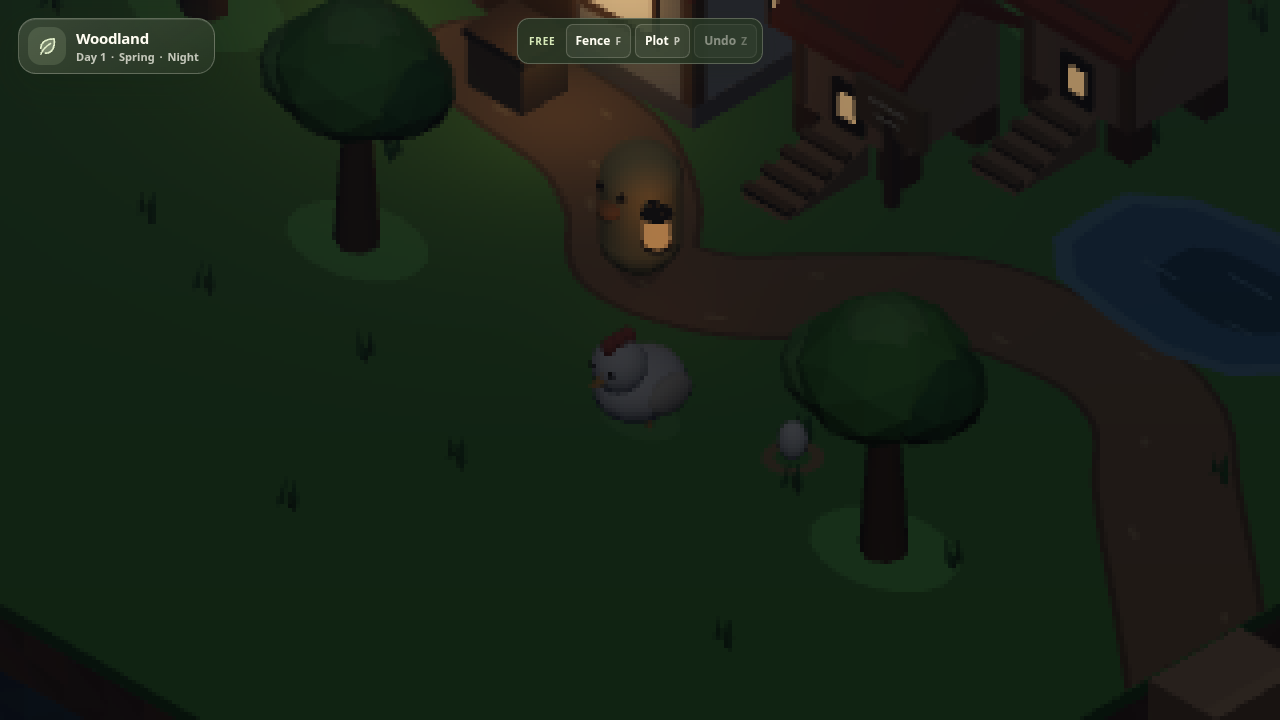
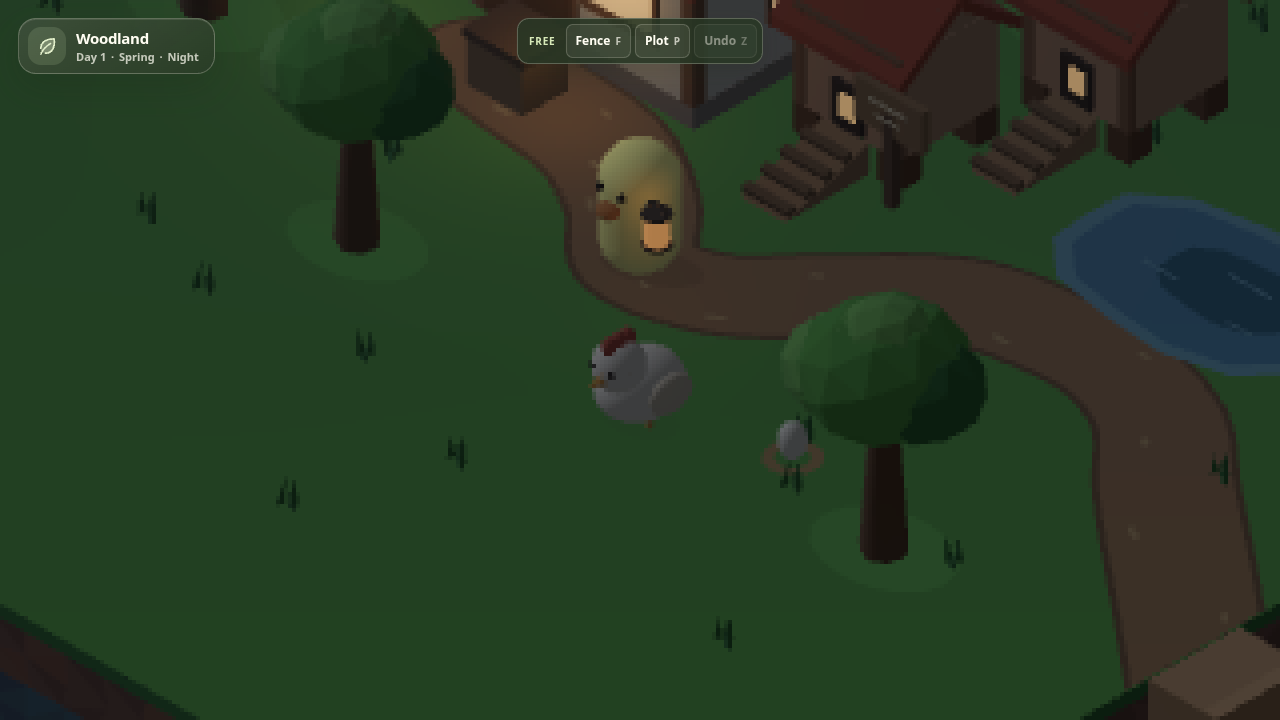
fix: align farm contact shadows with the key

diff --git a/src/scene/createFarmShadows.ts b/src/scene/createFarmShadows.ts
@@ -1,0 +1,64 @@
+import * as THREE from 'three';
+import { GROUND_HEIGHT } from './createIsland';
+import { FARM_BUILDINGS } from './farmBuildingSpecs';
+
+// The farm uses intentionally soft, pixel-stable ground blobs rather than
+// shadow maps. The tree/chicken contacts are existing meshes; buildings get
+// a matching flat footprint without changing their geometry or materials.
+export function createFarmShadows(scene: THREE.Scene) {
+  const trees = Array.from({ length: 4 }, (_, index) => {
+    const tree = scene.getObjectByName(`farm-tree-${index + 1}`);
+    const shadow = scene.getObjectByName(`farm-tree-shadow-${index + 1}`);
+    return tree && shadow instanceof THREE.Mesh ? { tree, shadow } : undefined;
+  }).filter((entry) => entry !== undefined);
+  const chicken = scene.getObjectByName('farm-chicken');
+  const chickenShadow = scene.getObjectByName('farm-chicken-shadow');
+
+  const buildingShadows = new THREE.Group();
+  buildingShadows.name = 'farm-building-shadows';
+  const geometry = new THREE.CircleGeometry(1, 24);
+  const material = new THREE.MeshBasicMaterial({ color: 0x000000, transparent: true, opacity: 0.12, depthWrite: false });
+  const buildings = FARM_BUILDINGS.map((spec) => {
+    const shadow = new THREE.Mesh(geometry, material);
+    shadow.name = `${spec.name}-shadow`;
+    shadow.rotation.x = -Math.PI / 2;
+    shadow.scale.set(spec.width * 0.55, spec.depth * 0.55, 1);
+    // Above the path and grass, below any visible building parts.
+    shadow.position.set(spec.x, GROUND_HEIGHT + 0.03, spec.z);
+    buildingShadows.add(shadow);
+    return { spec, shadow };
+  });
+  scene.add(buildingShadows);
+
+  function update(awayX: number, awayZ: number, offset: number, strength: number) {
+    const rotation = Math.atan2(-awayZ, awayX);
+    for (const { tree, shadow } of trees) {
+      const distance = offset * 1.8;
+      // Tree groups are uniformly scaled; use world-sized offsets so every
+      // tree follows the same sun rather than stretching with its scale.
+      const treeScale = tree.scale.x;
+      shadow.position.x = awayX * distance / treeScale;
+      shadow.position.z = awayZ * distance / treeScale;
+      shadow.rotation.z = rotation;
+      // Keep the silhouette touching the trunk when the low sun moves it out.
+      shadow.scale.x = Math.max(1, (distance + 0.15 * treeScale) / (0.8 * treeScale));
+      if (shadow.material instanceof THREE.MeshBasicMaterial) shadow.material.opacity = 0.16 * strength;
+    }
+    if (chicken && chickenShadow instanceof THREE.Mesh) {
+      const distance = offset * 0.9;
+      chickenShadow.position.x = chicken.position.x + awayX * distance;
+      chickenShadow.position.z = chicken.position.z + awayZ * distance;
+      chickenShadow.rotation.z = rotation;
+      chickenShadow.scale.x = Math.max(1, (distance + 0.1) / 0.43);
+      if (chickenShadow.material instanceof THREE.MeshBasicMaterial) chickenShadow.material.opacity = 0.18 * strength;
+    }
+    for (const { spec, shadow } of buildings) {
+      const distance = offset * (spec.name === 'cottage' ? 2 : 1.8);
+      shadow.position.x = spec.x + awayX * distance;
+      shadow.position.z = spec.z + awayZ * distance;
+    }
+    material.opacity = 0.12 * strength;
+  }
+
+  return { update };
+}

diff --git a/src/lighting/createDayNightCycle.ts b/src/lighting/createDayNightCycle.ts
@@ -18,9 +18,10 @@ interface DayNightCycleOptions {
   windows: readonly WindowPane[];
   extraEmissives?: readonly EmissiveAccent[];
   shadowSupported?: (x: number, z: number, radius: number) => boolean;
+  updateFarmShadows?: (awayX: number, awayZ: number, offset: number, strength: number) => void;
 }
 
-export function createDayNightCycle({ scene, character, windows, extraEmissives, shadowSupported }: DayNightCycleOptions) {
+export function createDayNightCycle({ scene, character, windows, extraEmissives, shadowSupported, updateFarmShadows }: DayNightCycleOptions) {
   const morning = DAY_NIGHT_PHASES[0];
   // The scene owns the fixed diorama void; phases still drive fog and lights.
   const fog = new THREE.FogExp2(morning.fog, morning.fogDensity);
@@ -85,6 +86,8 @@ export function createDayNightCycle({ scene, character, windows, extraEmissives,
     let offset = shadowOffset * (1 - 0.5 * cloudyAmount - 0.45 * rainAmount);
     const awayX = -lightDirection.x / horizontal;
     const awayZ = -lightDirection.z / horizontal;
+    const opacity = shadowOpacity * (1 - 0.5 * cloudyAmount - 0.8 * rainAmount);
+    updateFarmShadows?.(awayX, awayZ, offset, opacity / 0.22);
     if (shadowSupported) {
       character.getWorldPosition(characterWorldPosition);
       // The entire ellipse fits inside this conservative enclosing circle.
@@ -115,7 +118,7 @@ export function createDayNightCycle({ scene, character, windows, extraEmissives,
     characterShadow.rotation.z = Math.atan2(-localShadowDirection.z, localShadowDirection.x);
     characterShadow.scale.x = 1 + offset / CHARACTER_RADIUS;
     if (characterShadow instanceof THREE.Mesh && characterShadow.material instanceof THREE.MeshBasicMaterial) {
-      characterShadow.material.opacity = shadowOpacity * (1 - 0.5 * cloudyAmount - 0.8 * rainAmount);
+      characterShadow.material.opacity = opacity;
     }
   }
 

diff --git a/src/main.ts b/src/main.ts
@@ -7,6 +7,7 @@ import { createPlacement } from './placement';
 import { createComposer, isPixelRenderingEnabled, type PixelRenderingState } from './postprocess';
 import { createFarmDecorations } from './scene/createFarmDecorations';
 import { createFarmLayout } from './scene/createFarmLayout';
+import { createFarmShadows } from './scene/createFarmShadows';
 import { createScene, GROUND_HEIGHT, GROUND_SIZE } from './scene/createScene';
 import { createStartupPhaseController, parseStartupOptions } from './startupOptions';
 import { createFarmHud } from './ui';
@@ -40,7 +41,10 @@ character.position.y = GROUND_HEIGHT;
 scene.add(character);
 follow(character.position);
 const { windows, extraEmissives, obstacles, splashExclusions, bridgeHeight, updateWaterfall } = createFarmLayout(scene);
-const dayNight = createDayNightCycle({ scene, character, windows, extraEmissives, shadowSupported: stairs.supports });
+const decorations = createFarmDecorations(scene, GROUND_HEIGHT);
+const farmShadows = createFarmShadows(scene);
+const dayNight = createDayNightCycle({ scene, character, windows, extraEmissives,
+  shadowSupported: stairs.supports, updateFarmShadows: farmShadows.update });
 const weather = createWeatherSystem({
   scene, camera, anchor: character, groundHeight: GROUND_HEIGHT, groundSize: GROUND_SIZE,
   splashExclusions, setDirectionalIntensityMultiplier: dayNight.setDirectionalIntensityMultiplier,
@@ -58,7 +62,6 @@ window.setDayNightCycleSeconds = setDayNightCycleSeconds;
 window.setDayNightPhase = setDayNightPhase;
 window.setWeather = setWeather;
 window.getWeather = getWeather;
-const decorations = createFarmDecorations(scene, GROUND_HEIGHT);
 let cancelClickTarget = () => {};
 const placement = createPlacement({
   scene, camera, canvas, ground, groundSize: GROUND_SIZE, groundHeight: GROUND_HEIGHT,

diff --git a/src/scene/createFarmLayout.ts b/src/scene/createFarmLayout.ts
@@ -96,7 +96,8 @@ function createTrees(group: THREE.Group) {
   const crowns = [FARM_PALETTE.treeFoliage, FARM_PALETTE.treeFoliageLight, FARM_PALETTE.treeFoliageDark]
     .map((color) => new THREE.MeshStandardMaterial({ color, roughness: 1, flatShading: true }));
   const shadowMaterial = new THREE.MeshBasicMaterial({
-    color: FARM_PALETTE.treeFoliageDark, transparent: true, opacity: 0.16, depthWrite: false,
+    // A shadow must darken even when the surrounding night ground is dark.
+    color: 0x000000, transparent: true, opacity: 0.16, depthWrite: false,
   });
 
   FARM_LAYOUT.trees.forEach(({ x, z, scale }, index) => {
@@ -107,6 +108,7 @@ function createTrees(group: THREE.Group) {
     group.add(tree);
 
     const shadow = new THREE.Mesh(new THREE.CircleGeometry(0.8, 16), shadowMaterial);
+    shadow.name = `farm-tree-shadow-${index + 1}`;
     shadow.rotation.x = -Math.PI / 2;
     shadow.scale.y = 0.72;
     shadow.position.y = 0.003;

diff --git a/src/scene/createFarmDecorations.ts b/src/scene/createFarmDecorations.ts
@@ -43,8 +43,9 @@ export function createFarmDecorations(scene: THREE.Scene, groundHeight: number) 
 
   const shadow = new THREE.Mesh(
     new THREE.CircleGeometry(0.43, 20),
-    new THREE.MeshBasicMaterial({ color: 0x263b20, transparent: true, opacity: 0.18, depthWrite: false }),
+    new THREE.MeshBasicMaterial({ color: 0x000000, transparent: true, opacity: 0.18, depthWrite: false }),
   );
+  shadow.name = 'farm-chicken-shadow';
   shadow.rotation.x = -Math.PI / 2;
   shadow.scale.y = 0.7;
   shadow.position.set(1.75, groundHeight + 0.04, 1.75);
